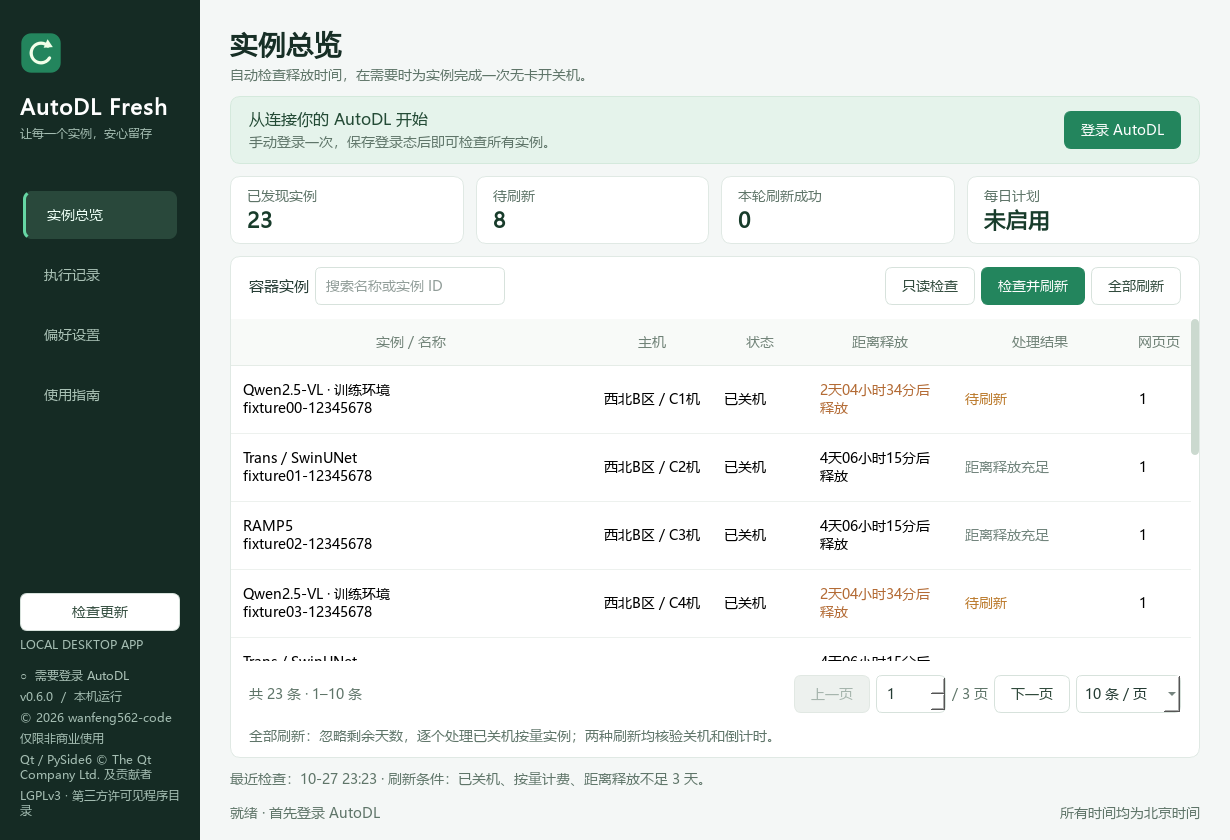
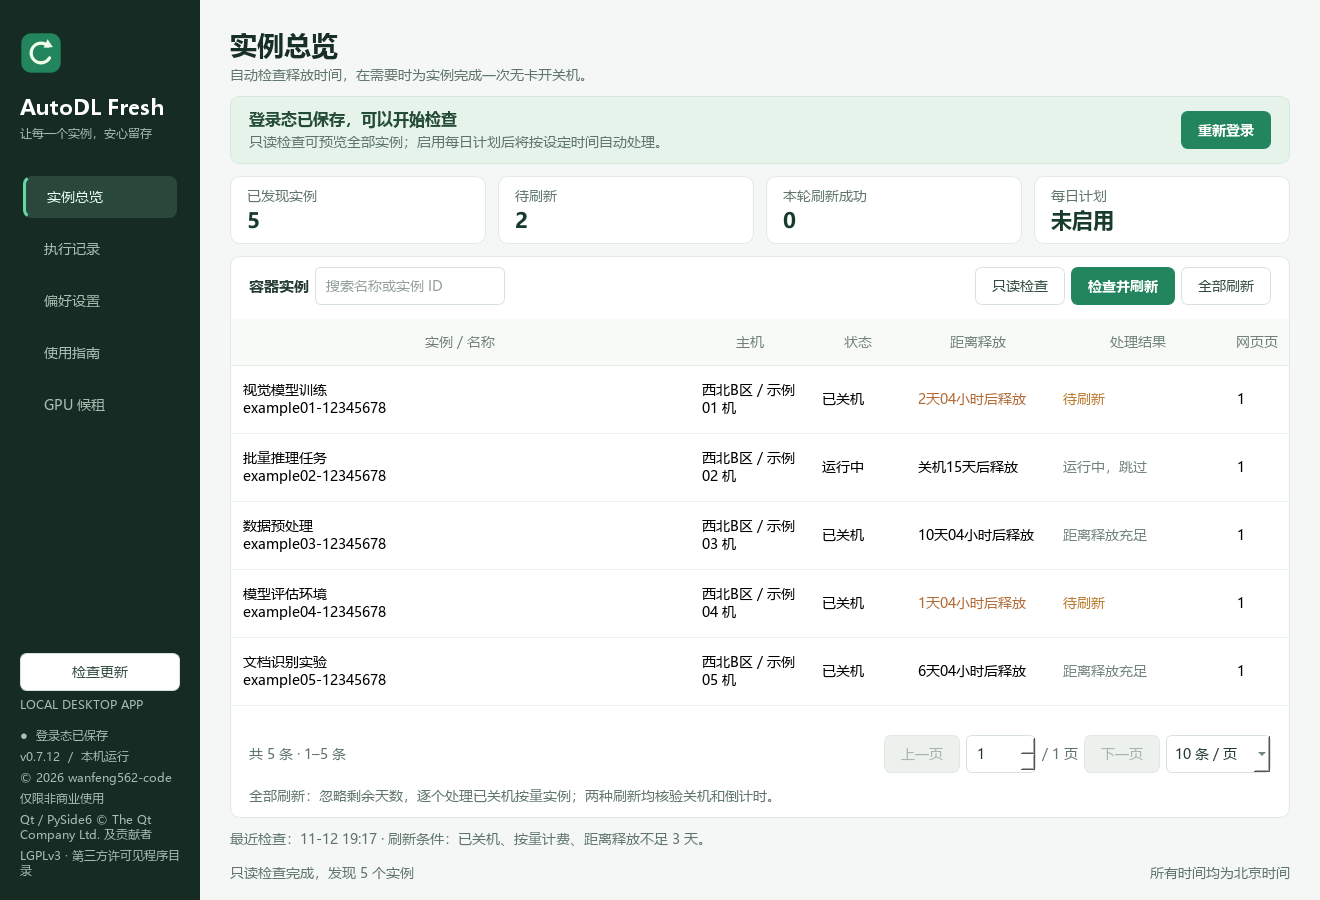
Release AutoDL Fresh 0.7.12 and refresh GPU rental screenshots

diff --git a/autodl_fresh/rental_browser.py b/autodl_fresh/rental_browser.py
@@ -29,7 +29,6 @@ class CloneConsole:
     def __init__(self, console, *, auth_state=None, request_client=None):
         self.console, self.page = console, console.page
         self.source = None
-        self.url = ""
         self.region_sign = ""
         self.region_value = ""
         self.expand_bytes = 0
@@ -204,18 +203,18 @@ class CloneConsole:
     def prepare(self, uuid):
         try:
             current = urlsplit(self.page.url)
-            query = parse_qs(current.query)
-            if self.source and self.source.uuid == uuid and current.path == "/cloneInstance" and query.get("id") == [uuid]:
+            if self.source and self.source.uuid == uuid and current.path == "/cloneInstance":
                 # A retry after entering the clone page stays on that page.
-                self._remember_clone_page()
-                self._assert_page()
+                if not self.region_sign:
+                    self._remember_clone_page()
+                self._assert_page(preparing=True)
                 # An earlier failed table request cannot recover by waiting on
                 # itself. offers() starts a fresh request with the checkboxes.
                 return self.source
             return self._prepare(uuid)
         except PlaywrightTimeoutError as exc:
             self.console._check_origin()
-            raise InventoryUnavailable("克隆页面读取超时，将自动重试") from exc
+            raise InventoryUnavailable("克隆页面读取超时") from exc
 
     def _prepare(self, uuid):
         self._new_table_round()
@@ -223,6 +222,7 @@ class CloneConsole:
         if source.status != "已关机" or source.blocked_reason:
             raise ConsoleError("候租的源实例必须已关机且状态正常，请先手动确认。")
         self.source = source
+        self.region_sign = self.region_value = ""
         self.console._row(uuid).get_by_role("button", name="更多", exact=True).click()
         self.page.locator(".el-dropdown-menu:visible").get_by_text("克隆实例", exact=True).click()
         dialog = self.page.locator(".el-dialog:visible").filter(has_text="克隆实例")
@@ -243,40 +243,53 @@ class CloneConsole:
         self.page.locator(self.ROOT).wait_for(state="visible")
         self._remember_clone_page()
         self._wait_table()
-        self._assert_page()
+        self._assert_page(preparing=True)
         return source
 
     def _remember_clone_page(self):
-        query = parse_qs(urlsplit(self.page.url).query)
-        self.url = self.page.url
-        self.region_sign = query.get("region", [""])[0]
-        self.region_value = ""
+        query = self._clone_query()
         try:
             self.expand_bytes = int(query.get("expand_size", ["0"])[0] or 0)
             if self.expand_bytes < 0:
                 raise ValueError
         except ValueError as exc:
             raise LayoutChanged("源数据盘扩容容量无法识别") from exc
+        self.region_sign = query["region"][0]
 
-    def _assert_page(self):
+    def _clone_query(self):
         self.console._check_origin()
         url = urlsplit(self.page.url)
-        query = parse_qs(url.query)
+        query = parse_qs(url.query, keep_blank_values=True)
+        region = query.get("region", [])
         if (url.path != "/cloneInstance" or query.get("id") != [self.source.uuid]
-                or query.get("copy_data_disk") != ["1"] or query.get("region") != [self.region_sign]
-                or not self.region_sign):
+                or query.get("copy_data_disk") != ["1"] or len(region) != 1 or not region[0]
+                or (self.region_sign and region[0] != self.region_sign)):
             raise LayoutChanged("克隆页的源实例、数据盘或地区不匹配，已停止。")
-        if self.page.locator(self.ROOT).get_by_text(
-                re.compile(r"^" + re.escape(self.source.uuid) + r"\s*/")).count() != 1:
+        return query
+
+    def _assert_page(self, *, preparing=False):
+        self._clone_query()
+        root = self.page.locator(self.ROOT)
+        source_values = root.locator(".instanceID").locator("xpath=..").locator(".value:visible").all_inner_texts()
+        if preparing and (not source_values or (len(source_values) == 1 and not source_values[0].strip())):
+            raise InventoryUnavailable("克隆页的源实例信息尚未显示")
+        # AutoDL displays "ID / name" only when a name is present.
+        if len(source_values) != 1 or source_values[0].partition("/")[0].strip() != self.source.uuid:
             raise LayoutChanged("页面源实例不匹配，已停止。")
-        payg = self.page.locator(self.ROOT).locator('input[type="radio"][value="payg"]')
-        if payg.count() != 1 or not payg.is_checked():
+        payg = root.locator('input[type="radio"][value="payg"]')
+        payg_count = payg.count()
+        if preparing and payg_count == 0:
+            raise InventoryUnavailable("克隆页的计费方式尚未显示")
+        if payg_count != 1 or not payg.is_checked():
             raise LayoutChanged("候租仅支持按量计费，当前计费方式不匹配。")
         regions = self.page.locator(self.FILTER).locator('.filter-item').filter(has_text="选择地区")
         # Special zones are rendered on a second row without the region label.
         regions = regions.or_(self.page.locator(self.FILTER).locator(".second-region"))
         selected = regions.locator('input[type="radio"]:checked')
-        if selected.count() != 1:
+        selected_count = selected.count()
+        if preparing and selected_count == 0:
+            raise InventoryUnavailable("克隆页的地区选项尚未就绪")
+        if selected_count != 1:
             raise LayoutChanged("未能识别克隆页唯一选中地区，请等待页面加载后重试。")
         text = selected.locator("xpath=ancestor::label[1]").inner_text()
         if compact(text) != compact(self.source.region.split("/")[0]):

diff --git a/tests/test_rental_browser.py b/tests/test_rental_browser.py
@@ -42,6 +42,8 @@ class CloneSite:
         self.quote_requests = []
         self.disk_price = "0"
         self.expanded = "0"
+        self.clone_source_text = f"{SOURCE} / 示例"
+        self.hide_clone_form = False
         self.wrong_region = False
         self.source_region = "西北B区"
         self.route_region = "west-B"
@@ -167,7 +169,10 @@ class CloneSite:
                          for gpu in ("RTX 4090", "RTX 3090"))
         sort_button = '<i class="sort-caret descending" style="display:inline-block;width:20px;height:20px" onclick="sortChanged()">↓</i>' if self.sortable else ''
         return f'''<meta charset="utf-8"><style>td{{padding:12px}} .el-table__body-wrapper{{height:160px;overflow:auto}}</style>
-        <div class="create-wrap"><div>{SOURCE} / 示例</div><label><input type="radio" value="payg" checked>按量计费</label>
+        <div class="create-wrap" {'hidden' if self.hide_clone_form else ''}>
+        <div class="instance-info"><div class="card"><div class="instanceID label">源实例:</div>
+        <div class="value"><div class="noMachine"><span>{self.clone_source_text}</span></div></div></div></div>
+        <label><input type="radio" value="payg" checked>按量计费</label>
         <div class="select-server"><div class="list-filter">
         <div class="filter-item">选择地区:<label><input type="radio" value="westDC3" {'' if self.special_zone else 'checked'}>{region}</label></div>{second}
         <div class="filter-item" id="gpu-types">GPU型号:<div class="st-checkbox">{radios}</div></div>
@@ -386,6 +391,64 @@ def test_dom_source_region_mismatch_fails_before_any_order(site_adapter):
     with pytest.raises(LayoutChanged, match="地区"):
         adapter.prepare(SOURCE)
     assert site.orders == []
+
+
+def test_clone_preparation_recovers_when_route_loads_before_source_card(site_adapter, tmp_path):
+    site, adapter = site_adapter
+    site.hide_clone_form = True
+    site.clone_source_text = ""
+    adapter.page.set_default_timeout(1000)
+    waits = []
+    messages = []
+
+    def wait(seconds):
+        assert not site.orders
+        assert site.page_paths == ['/console/instance/list', '/cloneInstance']
+        waits.append(seconds)
+        if len(waits) == 1:
+            adapter.page.locator(adapter.ROOT).evaluate("e=>e.hidden=false")
+        elif len(waits) == 2:
+            adapter.page.locator('.instance-info .value span').evaluate("(e, id)=>e.textContent=id", SOURCE)
+        else:
+            pytest.fail('Clone form is ready and should not require another preparation retry')
+
+    task = RentalEngine(adapter, Store(tmp_path), config(), wait=wait,
+                        changed=lambda task: messages.append(task['message'])).run()
+    assert task['phase'] == 'completed' and len(site.orders) == 1
+    assert waits == [1, 1]
+    assert any('读取超时' in message and message.count('自动重试') == 1 for message in messages)
+    assert any('源实例信息尚未显示' in message for message in messages)
+
+
+def test_clone_page_can_show_the_source_id_without_a_name(site_adapter):
+    site, adapter = site_adapter
+    site.clone_source_text = SOURCE
+    assert adapter.prepare(SOURCE).uuid == SOURCE
+    assert not site.orders
+
+
+@pytest.mark.parametrize('displayed', [f'{TARGET} / 其他实例', f'{SOURCE}extra'])
+def test_wrong_source_id_in_clone_card_stops_before_order(site_adapter, displayed):
+    site, adapter = site_adapter
+    site.clone_source_text = displayed
+    with pytest.raises(LayoutChanged, match='页面源实例不匹配'):
+        adapter.prepare(SOURCE)
+    assert not site.orders
+
+
+@pytest.mark.parametrize('parameter,value', [('id', TARGET), ('region', 'changed-region'), ('copy_data_disk', '0')])
+def test_clone_preparation_retry_rejects_changed_route_parameters(site_adapter, parameter, value):
+    site, adapter = site_adapter
+    adapter.prepare(SOURCE)
+    views = site.page_views
+    adapter.page.evaluate("""([key, value])=>{
+        const url = new URL(location.href);
+        url.searchParams.set(key, value);
+        history.replaceState(null, '', url);
+    }""", [parameter, value])
+    with pytest.raises(LayoutChanged, match='克隆页的源实例、数据盘或地区不匹配'):
+        adapter.prepare(SOURCE)
+    assert site.page_views == views and not site.orders
 
 
 def test_region_route_alias_and_inventory_changes_are_not_region_switches(site_adapter):

diff --git a/autodl_fresh/__init__.py b/autodl_fresh/__init__.py
@@ -1,3 +1,3 @@
 """AutoDL Fresh desktop application."""
 
-__version__ = "0.7.11"
+__version__ = "0.7.12"

diff --git a/README.md b/README.md
@@ -2,14 +2,14 @@
 
 AutoDL 普通容器实例的中文桌面保活助手，使用 Python、Playwright 和 PySide6 构建。
 
-**当前正式版：0.7.11** · Windows 10 / 11 x64 · **仅限非商业使用**
+**当前正式版：0.7.12** · Windows 10 / 11 x64 · **仅限非商业使用**
 
-0.7.11 修复下单遇到无创建结果的 `InternalError` 时停止候租的问题，并包含 0.7.10 的单型号库存筛选修复。
+0.7.12 修复克隆页尚未显示源实例时的误判，支持仅显示 ID 的未命名实例。
 
 包含「GPU 候租」、库存竞争重试、内置报价缓存和克隆结果人工确认，使用方法见下文。
 
-[下载 Windows 正式版](https://github.com/wanfeng562-code/autodl-fresh/releases/download/v0.7.11/AutoDLFresh-0.7.11-windows-x64.zip)
-| [发布说明](https://github.com/wanfeng562-code/autodl-fresh/releases/tag/v0.7.11)
+[下载 Windows 正式版](https://github.com/wanfeng562-code/autodl-fresh/releases/download/v0.7.12/AutoDLFresh-0.7.12-windows-x64.zip)
+| [发布说明](https://github.com/wanfeng562-code/autodl-fresh/releases/tag/v0.7.12)
 | [许可协议](LICENSE)
 | [更新日志](CHANGELOG.md)
 
@@ -51,11 +51,15 @@ AutoDL 普通容器实例的中文桌面保活助手，使用 Python、Playwrigh
 
 ## GPU 候租
 
+![GPU 候租配置，包含源实例、型号优先级、参考报价和候租条件（模拟数据）](docs/gpu-rental.png)
+
 1. 保存 AutoDL 登录态后进入侧栏「GPU 候租」，点击「读取实例」，选择已关机且状态正常的源实例。
 2. 选择源实例后自动显示该地区的 JSON 缓存型号与报价；「加载缓存型号与报价」也仅读取缓存，不打开浏览器。默认勾选原型号，也可勾选替代型号并调整优先顺序，4090、4090D 等精确区分。如需更新或该地区暂无缓存，请手动点击「重新核对报价」：这会在最小化浏览器中逐个勾选型号并读取主机表格，包括已占用主机，完整读取通常至少需要 2 分钟。进度与报价逐项更新，支持停止。
 3. 设置卡数、刷新间隔（默认 1 秒，可选 1–3600 秒）及最长候租时间。无需配置费用上限。
 4. 勾选计费确认，再点「开始候租并自动开机」。找到库存后按型号优先顺序、再按价格选机，按网页实际报价创建并开机一台。
 5. 平台返回创建成功及新实例 ID 后，立即显示托盘通知、系统提示音、任务栏提醒及常驻提示，可查看结果或复制 ID。随后只等待这台实例的克隆和数据盘拷贝完成，更新为已就绪并关闭应用专用浏览器进程，不再遍历实例列表。新实例按平台实际状态计费，使用后自行关机；源实例保留。系统通知与声音是否呈现还受 Windows 通知设置影响。
+
+![克隆创建提示、核验进度及人工确认操作（模拟数据）](docs/clone-verification.png)
 
 系统盘与数据盘始终一并克隆，地区锁定在源实例地区，仅支持按量计费。参考报价为当前已读取主机的常规价格，会员优惠及最终费用以网页为准。
 扩容数据盘按网页日价另行收费；软件保留源数据盘扩容容量，不因旧版费用上限阻止租用。

diff --git a/release-history/v0.7.12.md b/release-history/v0.7.12.md
@@ -1,0 +1,51 @@
+# AutoDL Fresh 0.7.12 正式版
+
+2026-11-12 发布（北京时间）。适用于 Windows 10 / 11 x64。
+
+- 克隆页超时后，候租会在原页面等待源实例、计费方式和地区选项就绪。源实例没有名称时，页面上的完整 ID 即可用于校验。
+- 实际显示的源实例 ID 不符，或重试时网址中的源实例、地区、数据盘参数发生变化，程序会停止创建。
+- 更新实例总览、GPU 候租配置和克隆核验三张截图。截图均使用模拟数据。
+
+![GPU 候租配置（模拟数据）](https://raw.githubusercontent.com/wanfeng562-code/autodl-fresh/v0.7.12/docs/gpu-rental.png)
+
+[实例总览](https://github.com/wanfeng562-code/autodl-fresh/blob/v0.7.12/docs/overview.png) · [克隆核验与人工确认](https://github.com/wanfeng562-code/autodl-fresh/blob/v0.7.12/docs/clone-verification.png) · [完整更新日志](https://github.com/wanfeng562-code/autodl-fresh/blob/v0.7.12/CHANGELOG.md)
+
+旧版可通过软件内的「检查更新」下载。手动升级时，从系统托盘退出旧版，解压完整的 `AutoDLFresh` 文件夹并运行其中的 `AutoDLFresh.exe`。登录态、偏好设置和运行历史存放在独立数据目录中，可直接沿用。
+
+随附 `SHA256SUMS.txt` 和第三方源码包。
+
+## 发布过程
+
+按执行顺序记录本地核对、附件上传、正式发布、更新验证和本地清理。
+
+### 2026-11-12T19:19:23+08:00 — 准备正式版附件并完成本地校验
+
+```json
+{
+  "files": [
+    {
+      "name": "AutoDLFresh-0.7.12-windows-x64.zip",
+      "bytes": 82893923,
[1 lines of base64/hex data omitted]
+    },
+    {
+      "name": "SHA256SUMS.txt",
+      "bytes": 212,
[1 lines of base64/hex data omitted]
+    },
+    {
+      "name": "AutoDLFresh-0.7.12-third-party-sources.zip",
+      "bytes": 72905453,
[1 lines of base64/hex data omitted]
+    }
+  ],
+  "application_code": "0.7.12，沿用已验证的程序二进制；更新正式版说明与许可链接",
+  "archive_entries": 624,
+  "private_runtime_data": false,
+  "screenshots": [
+    "overview.png",
+    "gpu-rental.png",
+    "clone-verification.png"
+  ]
+}
+```

diff --git a/THIRD_PARTY_NOTICES.md b/THIRD_PARTY_NOTICES.md
@@ -1,6 +1,6 @@
 # Third-party notices and corresponding source
 
-AutoDL Fresh 0.7.11 uses independently licensed third-party software. The project's
+AutoDL Fresh 0.7.12 uses independently licensed third-party software. The project's
 non-commercial license applies only to the copyright holder's original work.
 It does **not** replace, narrow, or claim ownership over any third-party license.
 
@@ -19,8 +19,8 @@ No commercial Qt license is represented as having been acquired.
 Full license texts, including the GPLv3 text incorporated by LGPLv3 and embedded
 third-party attributions, are included under `licenses/third-party`.
 
-The [v0.7.11 release](https://github.com/wanfeng562-code/autodl-fresh/releases/tag/v0.7.11)
-offers **AutoDLFresh-0.7.11-third-party-sources.zip**, containing the complete,
+The [v0.7.12 release](https://github.com/wanfeng562-code/autodl-fresh/releases/tag/v0.7.12)
+offers **AutoDLFresh-0.7.12-third-party-sources.zip**, containing the complete,
 unmodified source archives for the Qt components shipped by this application:
 
 - [Qt Base 6.10.2](https://download.qt.io/official_releases/qt/6.10/6.10.2/submodules/qtbase-everywhere-src-6.10.2.tar.xz)
@@ -45,7 +45,7 @@ configuration. See the LICENSE exception protecting these third-party rights.
 
 ## Other components
 
-| Component | Version in 0.7.11 | Upstream license / notices |
+| Component | Version in 0.7.12 | Upstream license / notices |
 | --- | --- | --- |
 | CPython runtime | 3.12.4 | Python Software Foundation license and bundled third-party notices |
 | Playwright for Python / driver | 1.64.1 | Apache-2.0; upstream NOTICE and ThirdPartyNotices.txt |

diff --git a/CHANGELOG.md b/CHANGELOG.md
@@ -1,5 +1,12 @@
 # 更新日志
 
+## 0.7.12 — 2026-11-12（正式版）
+
+- 发布 Windows x64 压缩包、SHA-256 校验文件及第三方源码包。发布、更新验证和本地清理记录见 `release-history/v0.7.12.md`。
+- 修复克隆页超时重试时把尚未显示的源实例信息误判为实例不匹配的问题。源实例、计费方式或地区选项未加载时会继续重试。
+- 校验克隆页源实例栏的完整 ID，兼容没有名称的实例。页面实际显示其他 ID，或重试时网址中的实例、地区或数据盘参数不匹配，会停止创建。
+- 更新实例总览、GPU 候租配置和克隆核验三张界面截图，使用模拟数据。
+
 ## 0.7.11 — 2026-11-12（正式版）
 
 - 发布 Windows x64 压缩包、SHA-256 校验文件和第三方源码包，支持软件内检查和下载更新。发布和验证记录见 `release-history/v0.7.11.md`。
